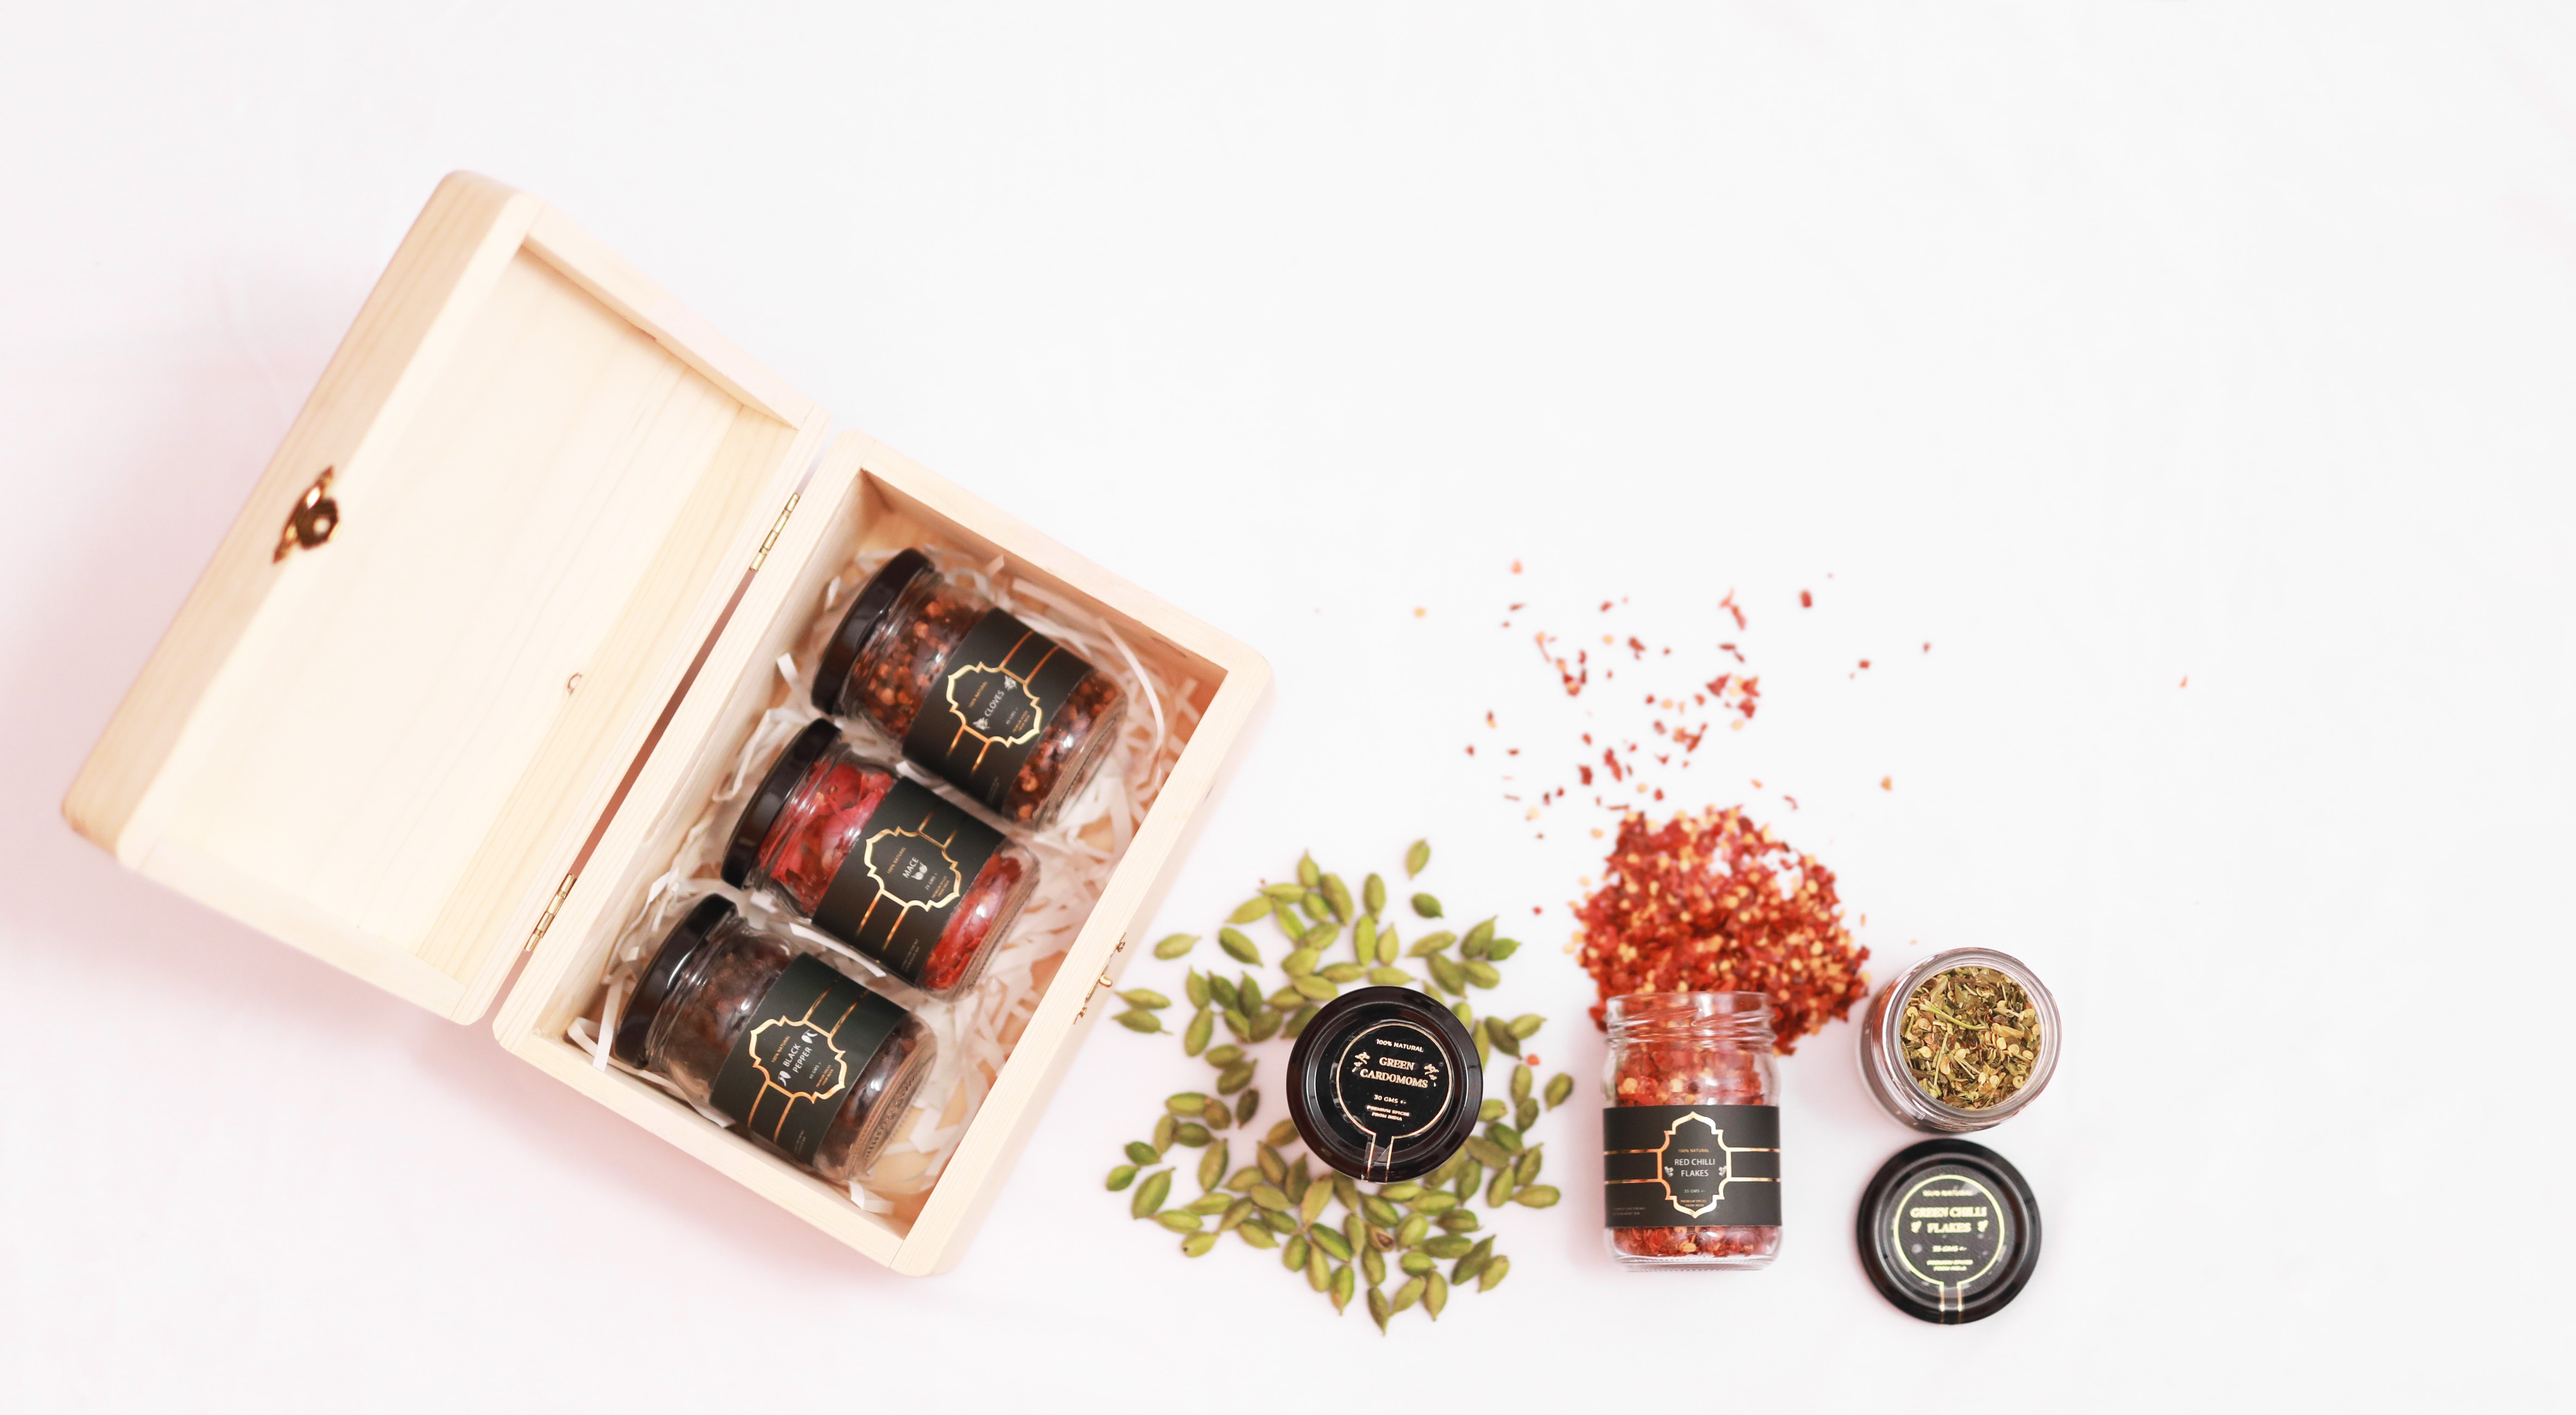
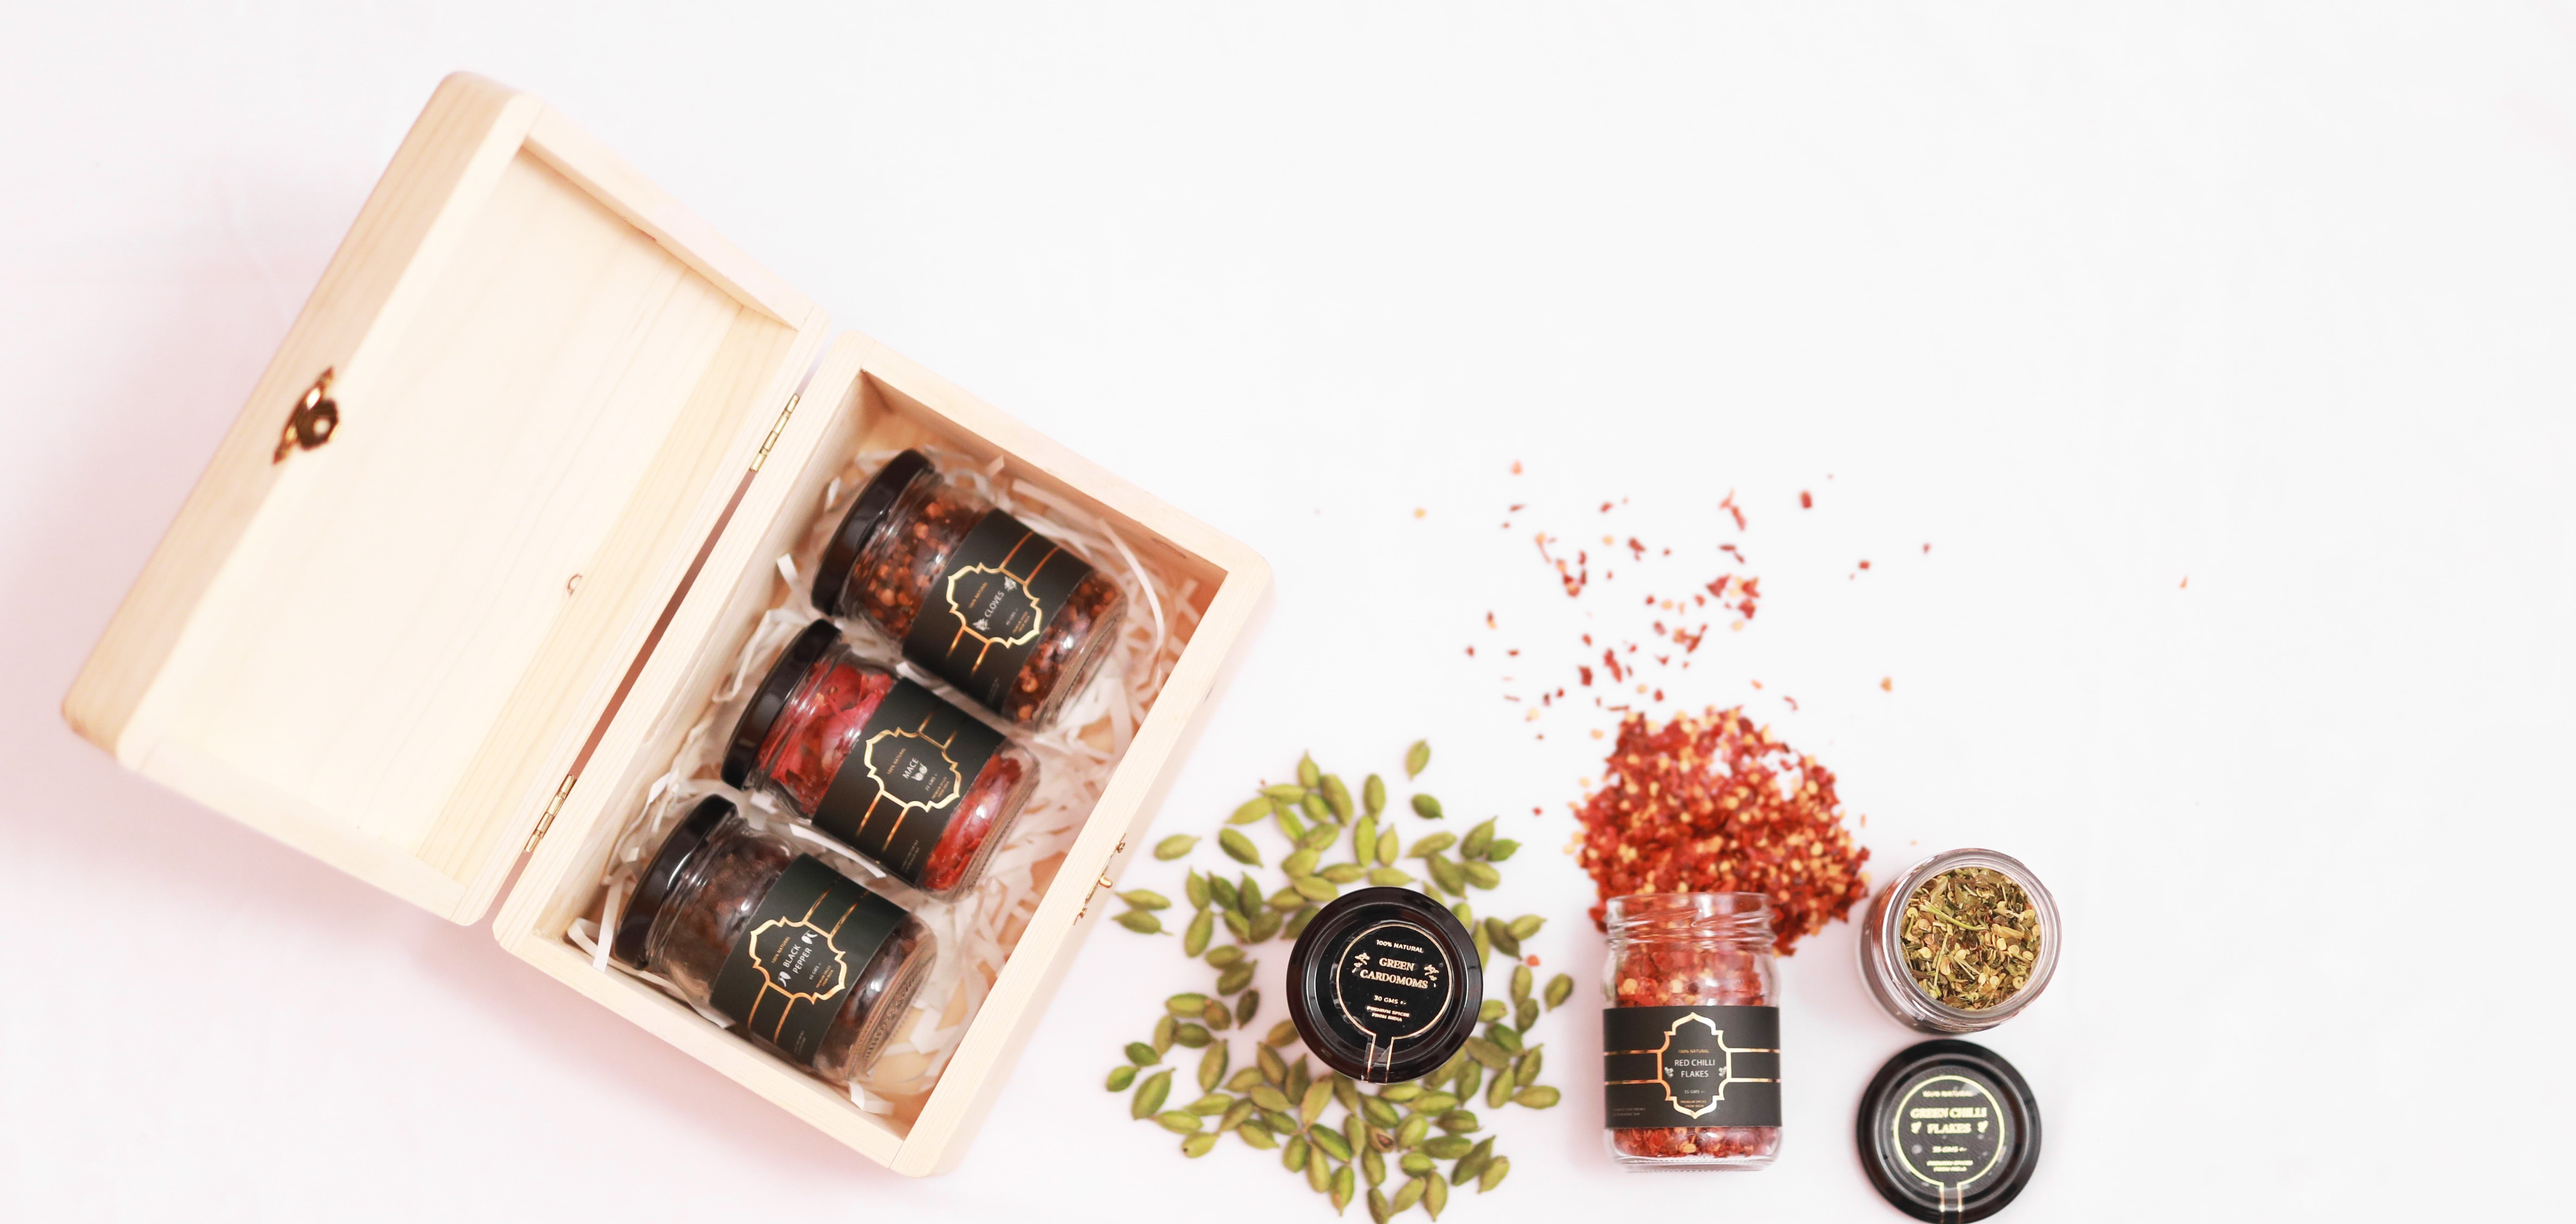
Ready

Changed region(s): [[0.0622, 0.062, 0.8086, 1.0], [0.5909, 0.403, 0.7153, 0.527], [0.0311, 0.589, 0.0622, 0.62]]

diff --git a/index.html b/index.html
@@ -54,8 +54,8 @@
 				</div>
 			  	<ul class="slides">
 			   	<li style="background-image: url(images/types/spices-edit.jpg);" data-stellar-background-ratio="0.5"></li>
-			   	<li style="background-image: url(images/types/header.jpg);" data-stellar-background-ratio="0.5"></li>
-			   	<li style="background-image: url(images/types/header-2.jpg);" data-stellar-background-ratio="0.5"></li>
+			   	<li style="background-image: url(images/types/header-edited.jpg);" data-stellar-background-ratio="0.5"></li>
+			   	<li style="background-image: url(images/types/headerjar-edited.jpg);" data-stellar-background-ratio="0.5"></li>
 			  	</ul>
 
 			</div>
@@ -283,4 +283,3 @@
 
 	</body>
 </html>
-
